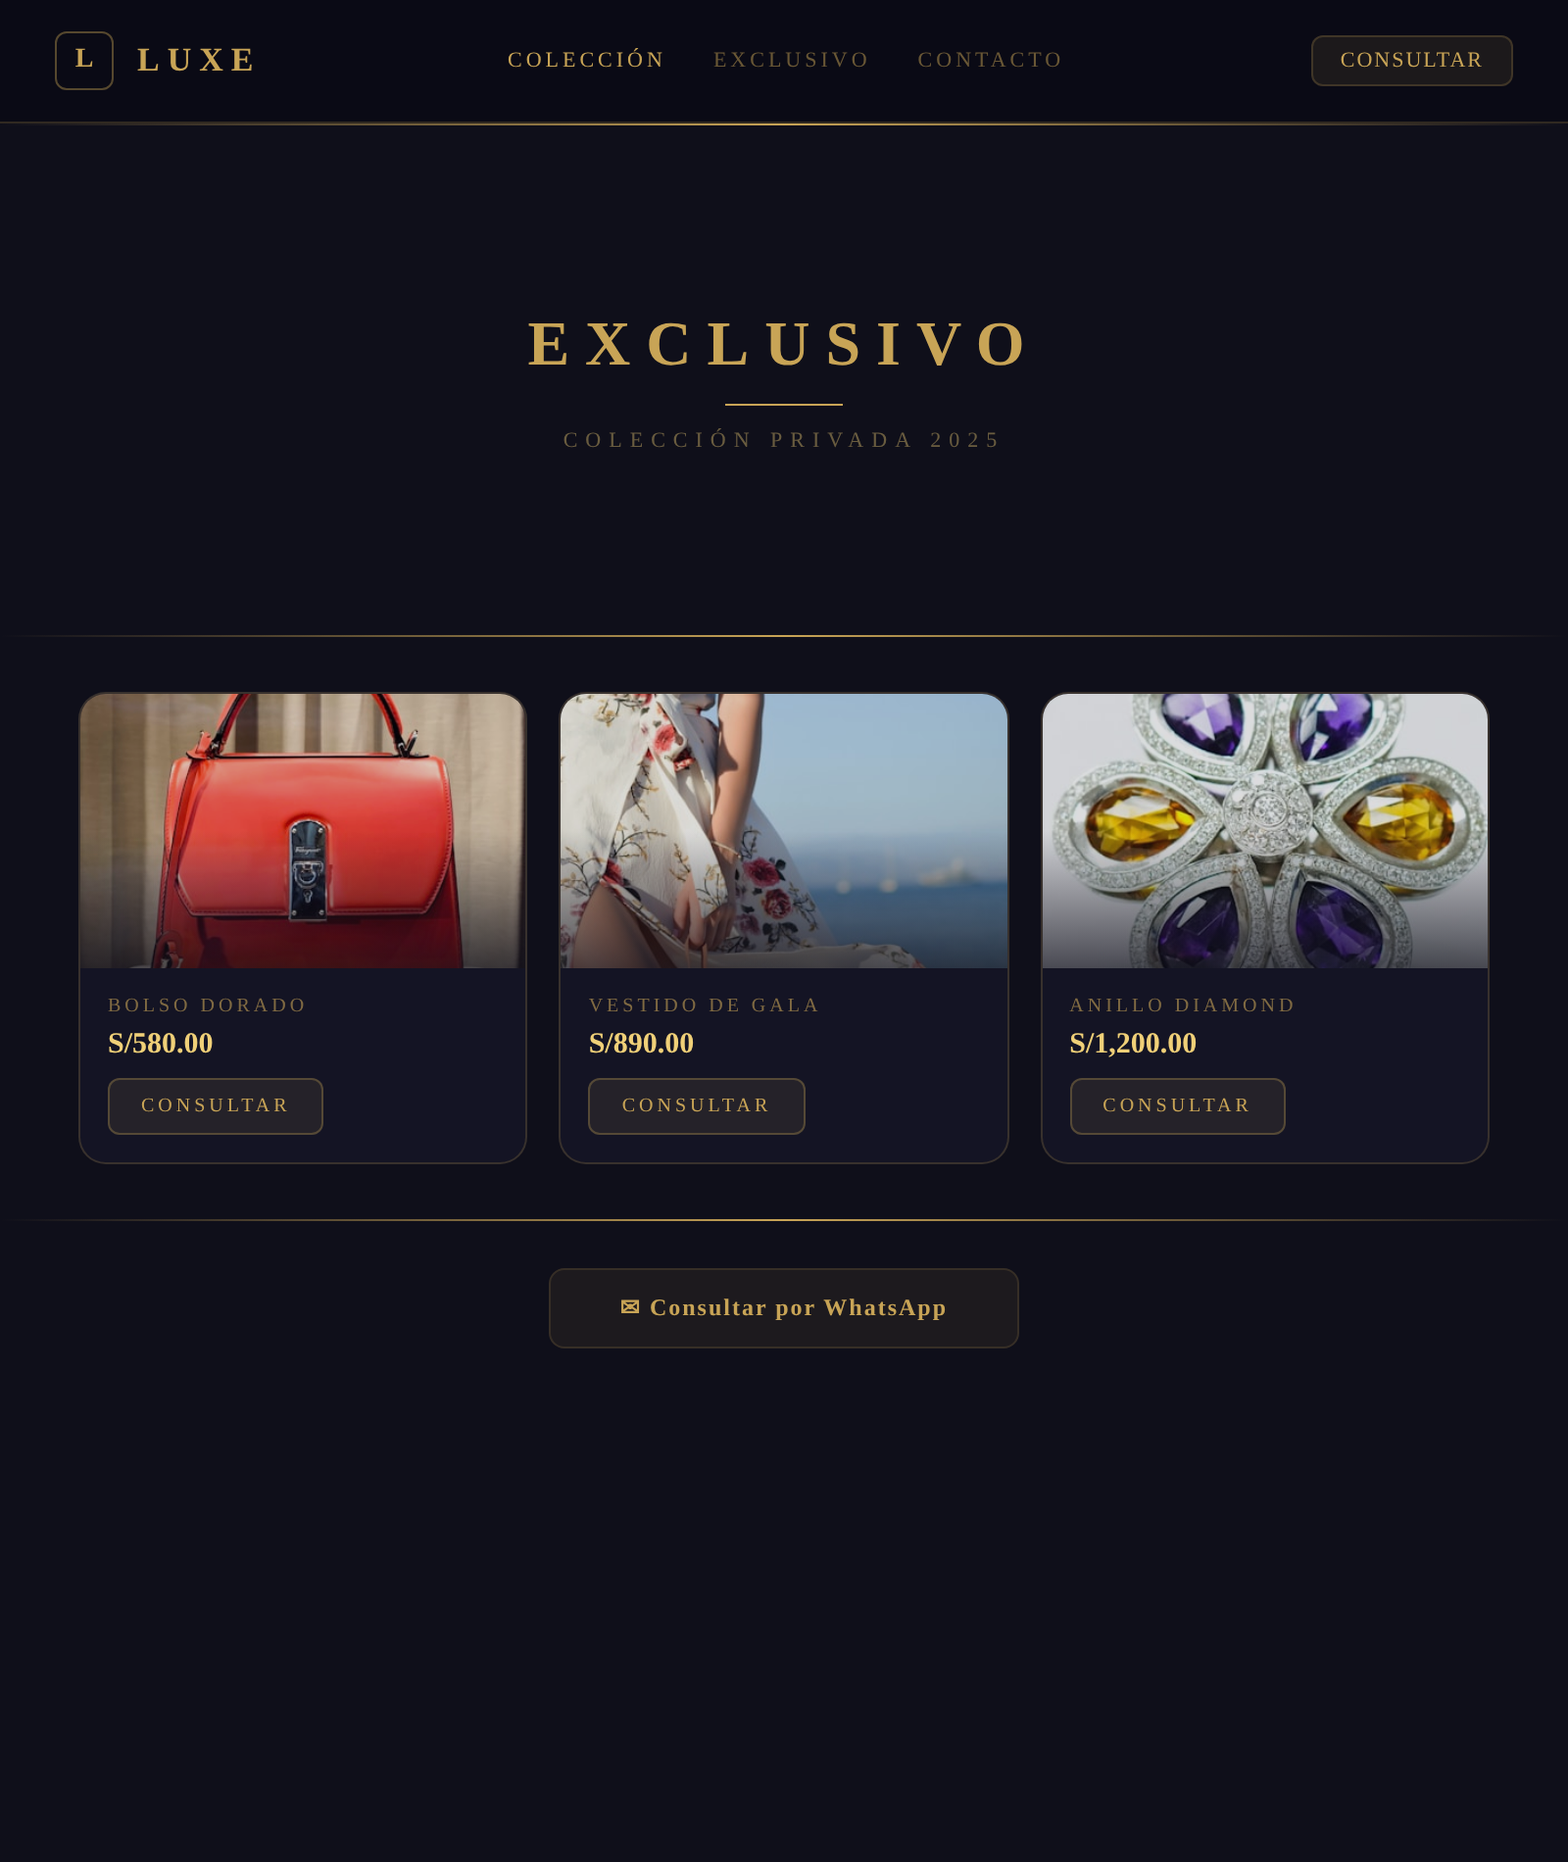
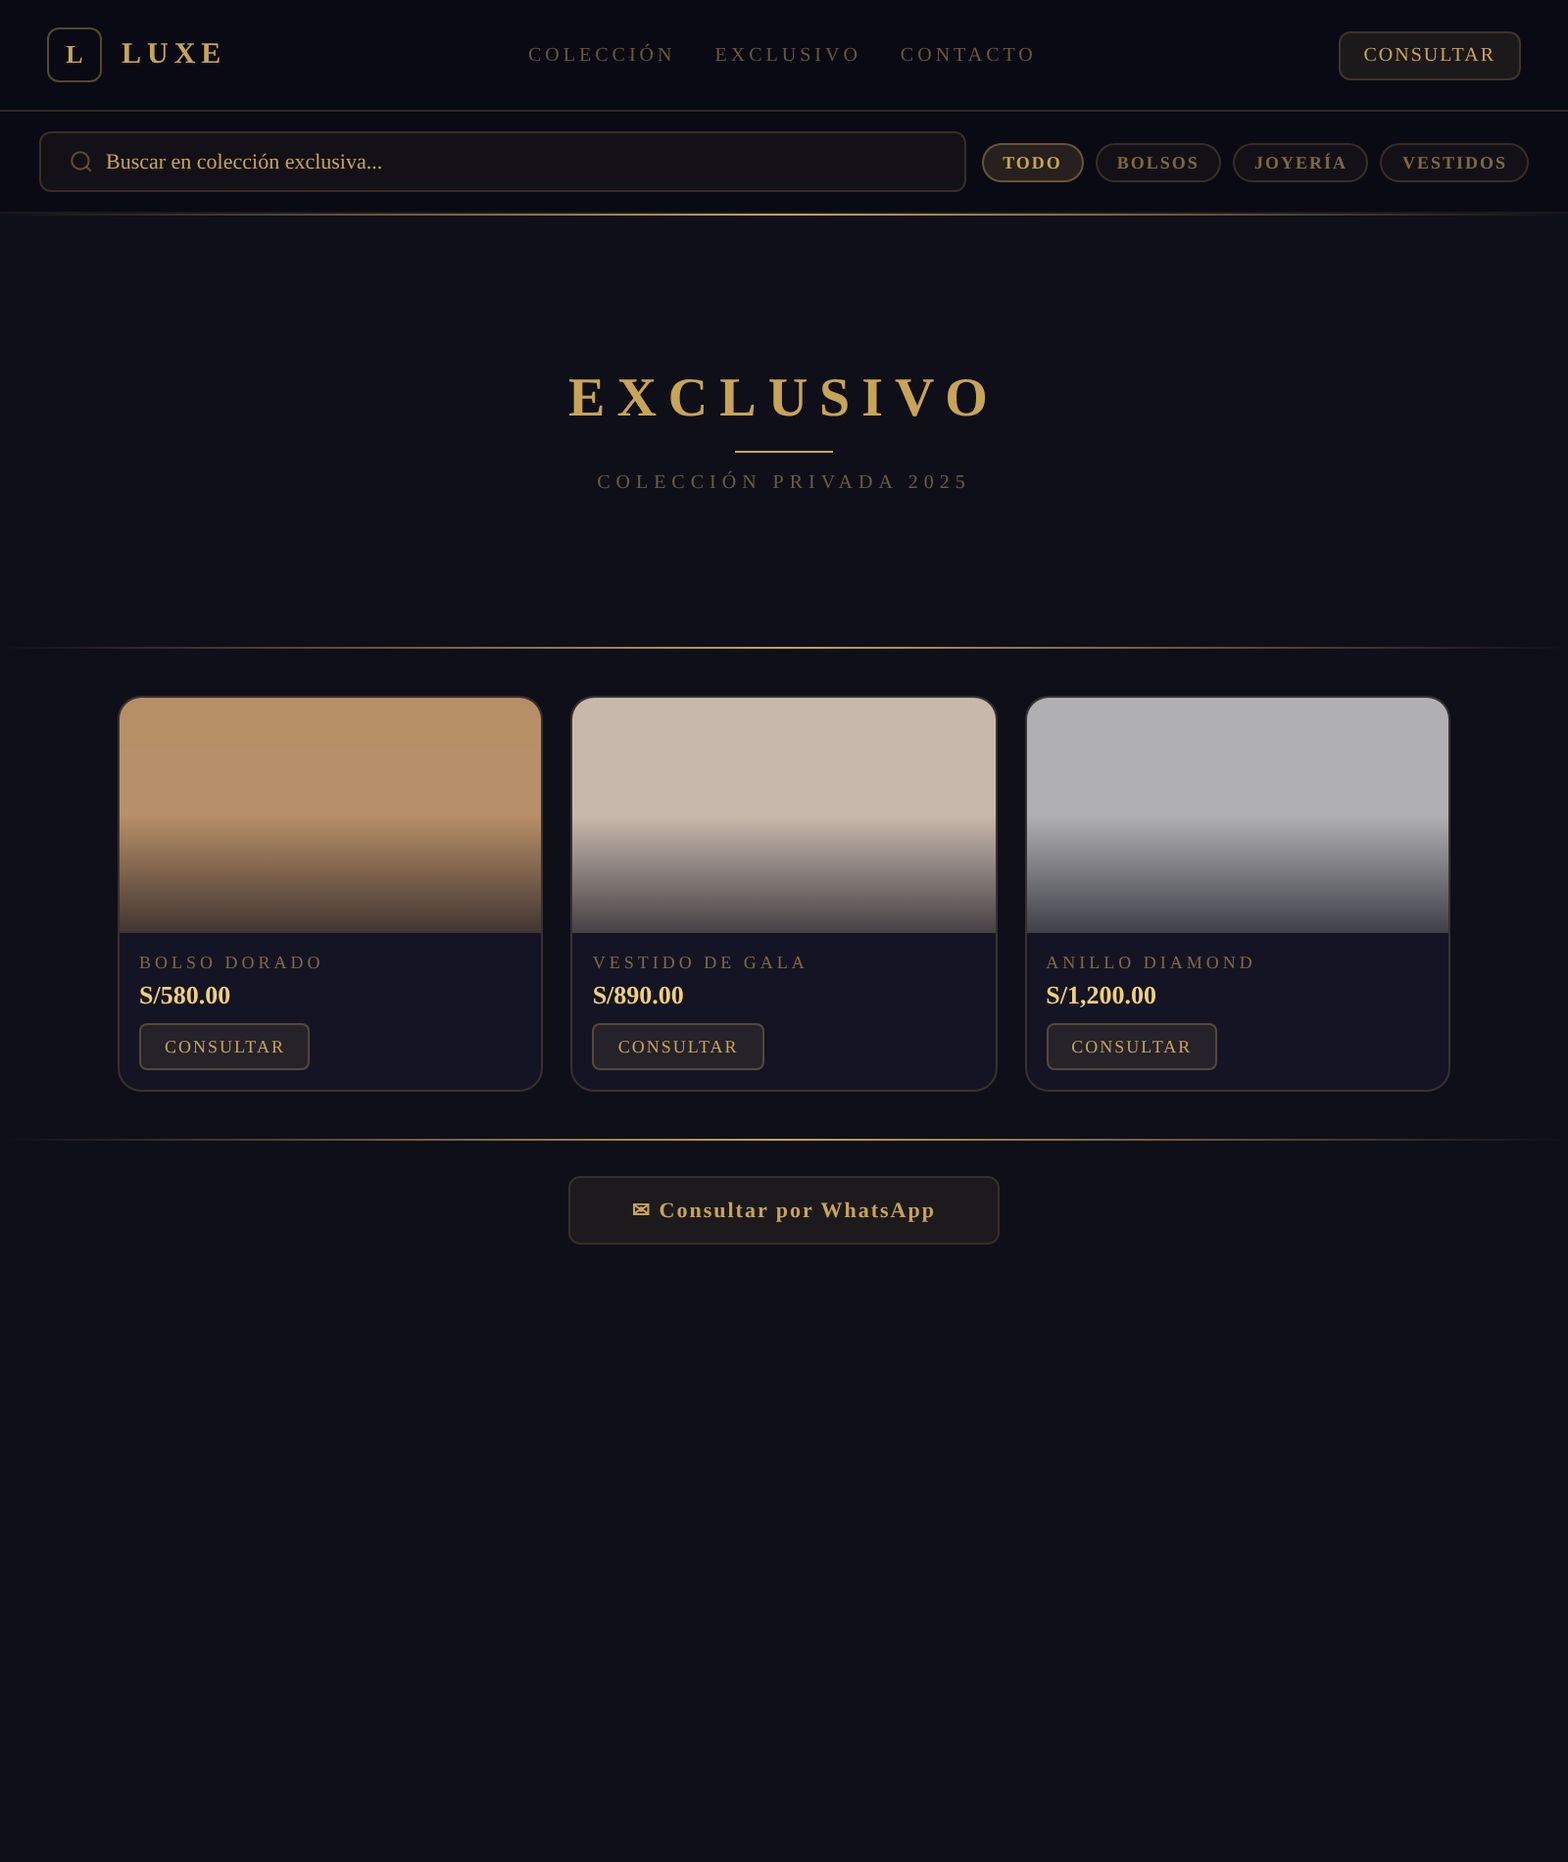
feat: add plan differentiation to templates
- Moderna (Gratis): no buscador, no categorías, badge TiendApp, solo 5 productos
- Vibrante (Pro S/29.90): buscador, categorías, promociones, 6 productos
- Clásica (Pro S/29.90): buscador, categorías, lista, 4 productos
- Luxury (Premium S/59.90): buscador avanzado, filtros, consultas privadas
- Minimalist (Premium S/59.90): buscador avanzado, filtros, featured section
- Updated Templates.tsx with plan badges, feature lists with locked items
- Regenerated all preview images with visible plan differences

Changed region(s): [[0.0312, 0.3726, 0.9688, 0.7142], [0.0312, 0.0, 0.9688, 0.0932], [0.3438, 0.1553, 0.6562, 0.2484]]

diff --git a/src/components/landing/Templates.tsx b/src/components/landing/Templates.tsx
@@ -4,51 +4,119 @@ import { useState } from 'react'
 import Image from 'next/image'
 import { motion } from 'framer-motion'
 import { Button } from '@/components/ui/button'
-import { Eye, Crown, ArrowRight, Check, Sparkles, Gem, Sun, Minimize2 } from 'lucide-react'
+import { Eye, Crown, ArrowRight, Check, Sparkles, Gem, Sun, Minimize2, Lock, Search, Filter, X } from 'lucide-react'
 
-const templates = [
+type PlanType = 'free' | 'pro' | 'premium'
+
+interface Template {
+  id: string
+  name: string
+  plan: PlanType
+  planLabel: string
+  planPrice: string
+  description: string
+  bestFor: string[]
+  features: { text: string; included: boolean }[]
+  icon: React.ElementType
+  accentColor: string
+}
+
+const templates: Template[] = [
   {
     id: 'moderna',
     name: 'Moderna',
-    badge: null,
-    description: 'Diseño limpio y profesional con navegación intuitiva, banner hero y productos en grid. La plantilla más popular para tiendas de moda, tecnología y lifestyle.',
+    plan: 'free',
+    planLabel: 'Gratis',
+    planPrice: 'S/0.00',
+    description: 'Diseño limpio y profesional con navegación intuitiva, banner hero y productos en grid. La plantilla incluida en el plan gratuito para empezar a vender hoy mismo.',
     bestFor: ['Moda', 'Tech', 'Lifestyle'],
+    features: [
+      { text: 'Hasta 5 productos', included: true },
+      { text: 'Botón de WhatsApp integrado', included: true },
+      { text: '100% responsive', included: true },
+      { text: 'Buscador de productos', included: false },
+      { text: 'Categorías y filtros', included: false },
+      { text: 'Sin badge TiendApp', included: false },
+    ],
     icon: Gem,
     accentColor: 'violet',
   },
   {
     id: 'vibrante',
     name: 'Vibrante',
-    badge: null,
-    description: 'Colores llamativos, categorías visuales y promociones destacadas. Perfecto para tiendas juveniles, streetwear y productos con personalidad única.',
+    plan: 'pro',
+    planLabel: 'Pro',
+    planPrice: 'S/29.90',
+    description: 'Colores llamativos, categorías visuales, buscador integrado y promociones destacadas. Perfecto para tiendas juveniles, streetwear y productos con personalidad.',
     bestFor: ['Streetwear', 'Youth', 'Pop Culture'],
+    features: [
+      { text: 'Hasta 20 productos', included: true },
+      { text: 'Buscador de productos', included: true },
+      { text: 'Categorías y filtros', included: true },
+      { text: 'Botón de WhatsApp integrado', included: true },
+      { text: 'Promociones y descuentos', included: true },
+      { text: 'Sin badge TiendApp', included: true },
+      { text: 'Filtros avanzados', included: false },
+    ],
     icon: Sparkles,
     accentColor: 'orange',
   },
   {
     id: 'clasica',
     name: 'Clásica',
-    badge: null,
-    description: 'Tonos cálidos, diseño en lista y estilo artesanal. Transmite confianza y tradición, ideal para artesanías, food y productos locales peruanos.',
+    plan: 'pro',
+    planLabel: 'Pro',
+    planPrice: 'S/29.90',
+    description: 'Tonos cálidos, diseño en lista con buscador y estilo artesanal. Transmite confianza y tradición, ideal para artesanías, food y productos locales peruanos.',
     bestFor: ['Artesanías', 'Food', 'Local'],
+    features: [
+      { text: 'Hasta 20 productos', included: true },
+      { text: 'Buscador de productos', included: true },
+      { text: 'Categorías y filtros', included: true },
+      { text: 'Botón de WhatsApp integrado', included: true },
+      { text: 'Sin badge TiendApp', included: true },
+      { text: 'Filtros avanzados', included: false },
+    ],
     icon: Sun,
     accentColor: 'amber',
   },
   {
     id: 'luxury',
     name: 'Luxury',
-    badge: 'Premium',
-    description: 'Elegancia oscura con acabados dorados y separadores visualmente exclusivos. Para marcas que quieren proyectar lujo y sofisticación absoluta.',
+    plan: 'premium',
+    planLabel: 'Premium',
+    planPrice: 'S/59.90',
+    description: 'Elegancia oscura con acabados dorados, buscador avanzado, filtros y consultas privadas. Para marcas que quieren proyectar lujo y sofisticación absoluta.',
     bestFor: ['Joyería', 'Alta Moda', 'Exclusive'],
+    features: [
+      { text: 'Hasta 100 productos', included: true },
+      { text: 'Buscador y filtros avanzados', included: true },
+      { text: 'Categorías y subcategorías', included: true },
+      { text: 'Botón de WhatsApp integrado', included: true },
+      { text: 'Sin badge TiendApp', included: true },
+      { text: 'Hasta 3 tiendas', included: true },
+      { text: 'Soporte 24/7', included: true },
+    ],
     icon: Crown,
     accentColor: 'gold',
   },
   {
     id: 'minimalist',
     name: 'Minimalist',
-    badge: 'Premium',
-    description: 'Ultra limpio, estilo Apple. Espacios amplios, tipografía precisa y zero distracciones. Para marcas modernas que comunican con simplicidad.',
+    plan: 'premium',
+    planLabel: 'Premium',
+    planPrice: 'S/59.90',
+    description: 'Ultra limpio, estilo Apple. Buscador avanzado, filtros, espacios amplios y tipografía precisa. Para marcas modernas que comunican con simplicidad.',
     bestFor: ['Design', 'Cosmetics', 'Modern'],
+    features: [
+      { text: 'Hasta 100 productos', included: true },
+      { text: 'Buscador y filtros avanzados', included: true },
+      { text: 'Categorías y subcategorías', included: true },
+      { text: 'Botón de WhatsApp integrado', included: true },
+      { text: 'Sin badge TiendApp', included: true },
+      { text: 'Hasta 3 tiendas', included: true },
+      { text: 'Soporte 24/7', included: true },
+    ],
     icon: Minimize2,
     accentColor: 'gray',
   },
@@ -65,6 +133,7 @@ function getAccentClasses(id: string) {
         badgeClass: 'from-[#c8a456] to-[#f0d078] text-[#0f0f1a]',
         bestForBg: 'bg-[#c8a456]/10 text-[#c8a456]',
         tagBg: 'bg-[#c8a456]/5 border-[#c8a456]/10',
+        planBg: 'bg-[#c8a456]/10 text-[#c8a456] border-[#c8a456]/20',
       }
     case 'minimalist':
       return {
@@ -75,6 +144,7 @@ function getAccentClasses(id: string) {
         badgeClass: 'from-gray-500 to-gray-700 text-white',
         bestForBg: 'bg-gray-100 text-gray-600',
         tagBg: 'bg-gray-50 border-gray-100',
+        planBg: 'bg-gray-100 text-gray-700 border-gray-200',
       }
     case 'vibrante':
       return {
@@ -85,6 +155,7 @@ function getAccentClasses(id: string) {
         badgeClass: 'from-orange-400 to-pink-500 text-white',
         bestForBg: 'bg-orange-50 text-orange-700',
         tagBg: 'bg-orange-50/50 border-orange-100',
+        planBg: 'bg-orange-50 text-orange-700 border-orange-200',
       }
     case 'clasica':
       return {
@@ -95,8 +166,9 @@ function getAccentClasses(id: string) {
         badgeClass: 'from-amber-500 to-amber-700 text-white',
         bestForBg: 'bg-amber-50 text-amber-700',
         tagBg: 'bg-amber-50/50 border-amber-100',
+        planBg: 'bg-amber-50 text-amber-700 border-amber-200',
       }
-    default: // moderna
+    default: // moderna (free)
       return {
         cardBorder: 'border-violet-200 hover:border-violet-300',
         iconColor: 'text-violet-600',
@@ -105,7 +177,19 @@ function getAccentClasses(id: string) {
         badgeClass: 'from-violet-500 to-violet-700 text-white',
         bestForBg: 'bg-violet-50 text-violet-700',
         tagBg: 'bg-violet-50/50 border-violet-100',
+        planBg: 'bg-violet-50 text-violet-700 border-violet-200',
       }
+  }
+}
+
+function getPlanBadge(plan: PlanType, label: string) {
+  switch (plan) {
+    case 'free':
+      return { bg: 'bg-emerald-50 text-emerald-700 border-emerald-200', icon: null }
+    case 'pro':
+      return { bg: 'bg-blue-50 text-blue-700 border-blue-200', icon: Search }
+    case 'premium':
+      return { bg: 'bg-amber-50 text-amber-700 border-amber-200', icon: Crown }
   }
 }
 
@@ -128,15 +212,31 @@ export function Templates() {
             Tu tienda se verá así de profesional
           </h2>
           <p className="text-lg text-gray-500 max-w-2xl mx-auto">
-            Cada plantilla es una tienda completa con navegación, productos, WhatsApp y todo listo para vender. No son solo colores, son tiendas de verdad.
+            Cada plan incluye plantillas con diferentes funcionalidades. Mientras más avanzado el plan, más herramientas para vender.
           </p>
+          {/* Plan legend */}
+          <div className="flex flex-wrap items-center justify-center gap-4 mt-6">
+            <div className="flex items-center gap-2 px-3 py-1.5 rounded-full bg-emerald-50 border border-emerald-200 text-sm font-medium text-emerald-700">
+              <div className="w-2 h-2 rounded-full bg-emerald-500" />
+              Gratis
+            </div>
+            <div className="flex items-center gap-2 px-3 py-1.5 rounded-full bg-blue-50 border border-blue-200 text-sm font-medium text-blue-700">
+              <Search className="w-3.5 h-3.5" />
+              Pro · S/29.90/mes
+            </div>
+            <div className="flex items-center gap-2 px-3 py-1.5 rounded-full bg-amber-50 border border-amber-200 text-sm font-medium text-amber-700">
+              <Crown className="w-3.5 h-3.5" />
+              Premium · S/59.90/mes
+            </div>
+          </div>
         </motion.div>
 
-        {/* Template showcase - Shopify style */}
-        <div className="space-y-10">
+        {/* Template showcase */}
+        <div className="space-y-12">
           {templates.map((tpl, i) => {
             const accent = getAccentClasses(tpl.id)
             const isEven = i % 2 === 0
+            const planBadge = getPlanBadge(tpl.plan, tpl.planLabel)
 
             return (
               <motion.div
@@ -152,13 +252,11 @@ export function Templates() {
                 {/* Image side */}
                 <div className="flex-1 w-full">
                   <div className={`relative rounded-2xl overflow-hidden border-2 shadow-lg transition-all duration-500 ${accent.cardBorder} ${hoveredId === tpl.id ? 'shadow-2xl scale-[1.02]' : ''}`}>
-                    {/* Premium badge */}
-                    {tpl.badge && (
-                      <div className={`absolute top-4 right-4 z-10 px-3 py-1.5 bg-gradient-to-r ${accent.badgeClass} text-xs font-bold rounded-full shadow-lg flex items-center gap-1.5`}>
-                        <Crown className="w-3.5 h-3.5" />
-                        {tpl.badge}
-                      </div>
-                    )}
+                    {/* Plan badge */}
+                    <div className={`absolute top-4 right-4 z-10 flex items-center gap-1.5 px-3 py-1.5 rounded-full text-xs font-bold border shadow-lg ${planBadge.bg}`}>
+                      {planBadge.icon && <planBadge.icon className="w-3.5 h-3.5" />}
+                      {tpl.planLabel}
+                    </div>
                     {/* Browser chrome */}
                     <div className="px-4 py-2.5 flex items-center gap-2 border-b border-gray-100 bg-gray-50/80">
                       <div className="flex gap-1.5">
@@ -203,17 +301,16 @@ export function Templates() {
                   <div className="flex items-center gap-3 mb-3">
                     <tpl.icon className={`w-6 h-6 ${accent.iconColor}`} />
                     <h3 className="text-2xl font-bold text-gray-900">{tpl.name}</h3>
-                    {tpl.badge && (
-                      <span className={`px-2.5 py-1 rounded-full text-xs font-semibold bg-gradient-to-r ${accent.badgeClass}`}>
-                        {tpl.badge}
-                      </span>
-                    )}
+                    <div className={`flex items-center gap-1.5 px-2.5 py-1 rounded-full text-xs font-semibold border ${planBadge.bg}`}>
+                      {planBadge.icon && <planBadge.icon className="w-3 h-3" />}
+                      {tpl.planLabel}
+                    </div>
                   </div>
 
                   <p className="text-gray-600 mb-4 leading-relaxed">{tpl.description}</p>
 
                   {/* Best for tags */}
-                  <div className="flex flex-wrap gap-2 mb-6">
+                  <div className="flex flex-wrap gap-2 mb-5">
                     {tpl.bestFor.map((tag) => (
                       <span
                         key={tag}
@@ -225,40 +322,57 @@ export function Templates() {
                     ))}
                   </div>
 
-                  {/* Features list */}
+                  {/* Features list with included/excluded */}
                   <div className="space-y-2.5 mb-6">
-                    {[
-                      'Productos con fotos, precios y descripción',
-                      'Botón de WhatsApp integrado',
-                      'Categorías y búsqueda',
-                      '100% responsive (se ve perfecto en celular)',
-                    ].map((feature) => (
-                      <div key={feature} className="flex items-center gap-2.5">
-                        <div className={`w-5 h-5 rounded-full flex items-center justify-center ${accent.bestForBg}`}>
-                          <Check className="w-3 h-3" />
-                        </div>
-                        <span className="text-sm text-gray-600">{feature}</span>
+                    {tpl.features.map((feature) => (
+                      <div key={feature.text} className="flex items-center gap-2.5">
+                        {feature.included ? (
+                          <div className={`w-5 h-5 rounded-full flex items-center justify-center ${accent.bestForBg}`}>
+                            <Check className="w-3 h-3" />
+                          </div>
+                        ) : (
+                          <div className="w-5 h-5 rounded-full flex items-center justify-center bg-gray-100 text-gray-400">
+                            <Lock className="w-3 h-3" />
+                          </div>
+                        )}
+                        <span className={`text-sm ${feature.included ? 'text-gray-600' : 'text-gray-400'}`}>
+                          {feature.text}
+                        </span>
+                        {!feature.included && (
+                          <span className="text-xs text-gray-400 ml-auto">Pro / Premium</span>
+                        )}
                       </div>
                     ))}
                   </div>
 
                   <div className="flex items-center gap-3">
-                    <Button
-                      size="lg"
-                      onClick={() => window.location.href = `/demo/${tpl.id}`}
-                      className={`gap-2 ${accent.btnPrimary}`}
-                    >
-                      <Eye className="w-5 h-5" />
-                      Ver demo
-                      <ArrowRight className="w-4 h-4" />
-                    </Button>
+                    {tpl.plan === 'free' ? (
+                      <Button
+                        size="lg"
+                        onClick={() => window.location.href = '/auth/register'}
+                        className={`gap-2 ${accent.btnPrimary}`}
+                      >
+                        Crear tienda gratis
+                        <ArrowRight className="w-4 h-4" />
+                      </Button>
+                    ) : (
+                      <Button
+                        size="lg"
+                        onClick={() => window.location.href = `/demo/${tpl.id}`}
+                        className={`gap-2 ${accent.btnPrimary}`}
+                      >
+                        <Eye className="w-5 h-5" />
+                        Ver demo
+                        <ArrowRight className="w-4 h-4" />
+                      </Button>
+                    )}
                     <Button
                       variant="outline"
                       size="lg"
                       onClick={() => window.location.href = '/auth/register'}
                       className={`gap-2 ${accent.btnClass}`}
                     >
-                      Usar esta plantilla
+                      {tpl.plan === 'free' ? 'Ver demo' : 'Usar esta plantilla'}
                     </Button>
                   </div>
                 </div>
